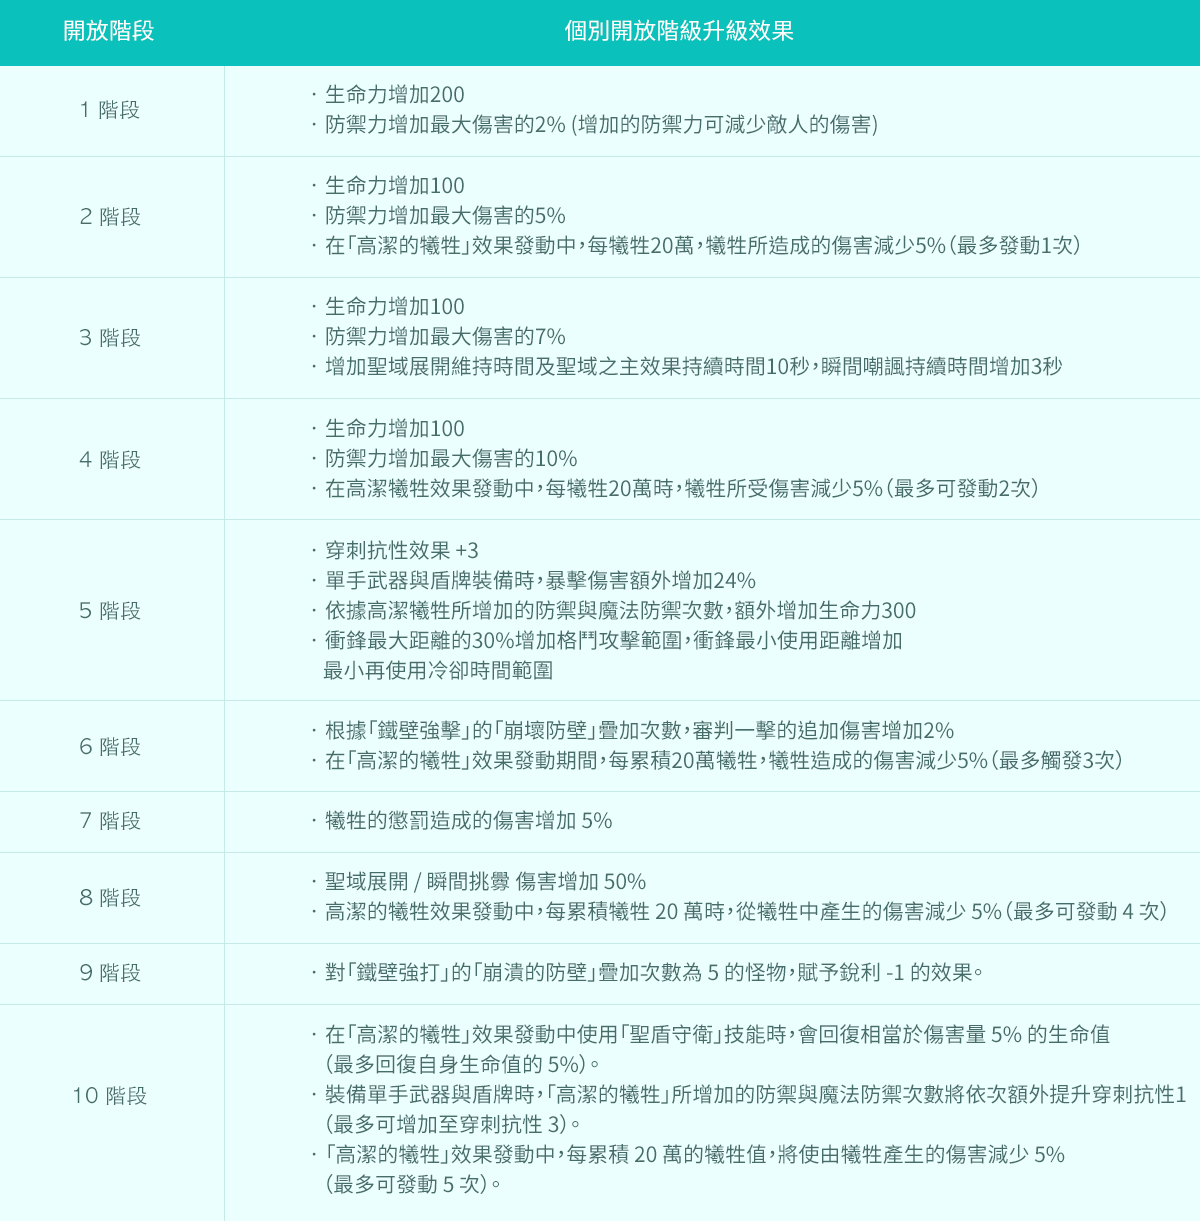
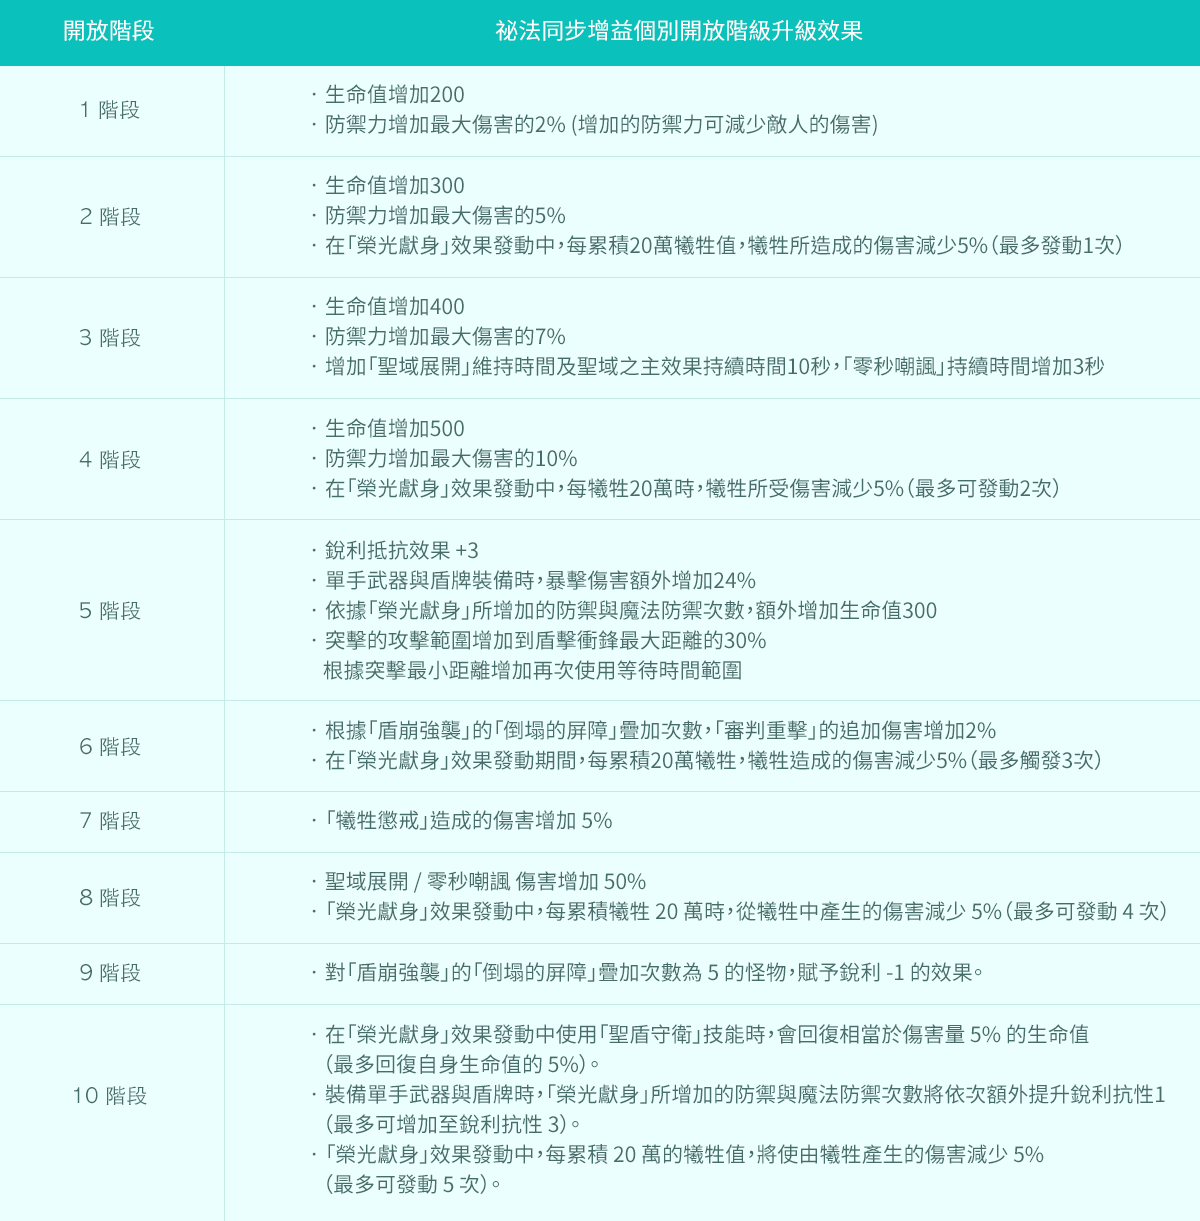
update menu

diff --git a/index.html b/index.html
@@ -42,8 +42,8 @@
   <body style="overflow: visible">
     <div class="wrap" name="Top">
       <div class="top">
-        <a class="logo" href="">
-          <img src="./img/page/logo.png" alt="마비노기" />
+        <a class="logo" href="https://mabinogi.beanfun.com/Main">
+          <img src="./img/page/logo.png" style="width: 142px" />
         </a>
       </div>
 
@@ -77,10 +77,10 @@
                 <div class="m_btn_close"></div>
                 <div class="bbox">
                   <div class="content">
-                    <div class="desc">海米斯教團的</div>
+                    <div class="desc">雷米斯教團的</div>
                     <div class="title">伊歐拉</div>
                     <div class="ctxt">
-                      新的祕法適合者候選人。<br /><br />伊歐拉在法皇廳聖殿騎士團中，<br />以特別閃耀的虔誠信仰受到高度評價。<br /><br />原本以為她會遵循並侍奉愛之神萊米拉克的教誨，<br />過著信仰的生活，<br />然而新的命運正悄然降臨。<br /><br />法皇廳為何要將這位值得信賴的人才送往祕法協會呢？
+                      新的祕法適合者候選人。<br /><br />伊歐拉在法皇廳聖殿騎士團中，<br />以特別閃耀的虔誠信仰受到高度評價。<br /><br />原本以為她會遵循並侍奉愛之神雷米斯的教誨，<br />過著信仰的生活，<br />然而新的命運正悄然降臨。<br /><br />法皇廳為何要將這位值得信賴的人才送往祕法協會呢？
                     </div>
                   </div>
                   <div class="vbox">
@@ -102,7 +102,7 @@
                         <span></span>
                       </div>
                     </div>
-                    <div class="txt">주 품에 나를 숨기소서</div>
+                    <div class="txt">請擁我入懷</div>
                   </div>
                 </div>
                 <div class="btn_close"></div>
@@ -214,7 +214,7 @@
           <div class="btn_go">
             <a
               target="_blank"
-              href="https://mabinogi.nexon.com/page/news/event_view.asp?id=4892354 "
+              href="https://tw-event.beanfun.com/mabinogi/EventAD/EventAD.aspx?EventADID=12950"
             >
               <span class="btn_span"></span>
             </a>
@@ -244,36 +244,41 @@
               style="position: relative; top: 0; left: 0"
               dir="ltr"
             >
-              <div class="btn_start">
-                <a href="" data-a2s-code="start-click">
-                  <span>GAME START</span>
-                </a>
-              </div>
               <div class="btn_home">
-                <a href="">
-                  <span class="btn_span">공식 홈페이지 바로가기</span>
+                <a href="https://mabinogi.beanfun.com/Main">
+                  <span class="btn_span"></span>
                 </a>
               </div>
-              <!-- 해당 항목 활성화 on 클래스 추가 -->
               <ul class="btn_box ss">
                 <li class="open on">
-                  <a href="">
-                    <span class="btn_span">사전 이벤트</span>
+                  <a
+                    href="https://tw.hicdn.beanfun.com/beanfun/promo/Mabi/20250619J-shield/index.html"
+                  >
+                    <span class="btn_span"></span>
                   </a>
                 </li>
                 <li class="open">
-                  <a href="">
-                    <span class="btn_span">블록버스타 1차 업데이트</span>
+                  <a
+                    href="https://tw.hicdn.beanfun.com/beanfun/promo/Mabi/20250619J-spear/index.html"
+                  >
+                    <span class="btn_span"></span>
                   </a>
                 </li>
                 <li class="open">
-                  <a href="">
-                    <span class="btn_span">블록버스타 2차 업데이트</span>
+                  <a
+                    href="https://tw.hicdn.beanfun.com/beanfun/promo/Mabi/20250619J-freeseason/index.html"
+                  >
+                    <span class="btn_span"></span>
                   </a>
                 </li>
                 <li class="open">
-                  <a href="">
-                    <span class="btn_span">브리 레흐 최종장</span>
+                  <a href="https://mabinogi-event.beanfun.com/Anniversary20th">
+                    <span class="btn_span"></span>
+                  </a>
+                </li>
+                <li class="open">
+                  <a href="https://bean.fun/Mabi_202507_Event">
+                    <span class="btn_span"></span>
                   </a>
                 </li>
               </ul>
@@ -303,7 +308,7 @@
         </div>
         <div class="btn_toggle">
           <a href="#">
-            <span class="btn_span">메뉴 열기/닫기</span>
+            <span class="btn_span"></span>
           </a>
         </div>
       </div>
@@ -344,7 +349,7 @@
                   <br />
                   對這位聖域的主人的攻擊，
                   <br />
-                  不會使其陷入硬直或倒地狀態。
+                  不會使其陷入僵直或倒地狀態。
                 </div>
               </div>
               <div class="v v1">
@@ -407,7 +412,7 @@
         </div>
         <div class="pop s9p3">
           <div class="skill_area">
-            <div class="title">榮光獻祭</div>
+            <div class="title">榮光獻身</div>
             <div class="desc">
               最先站出的犧牲者，將守護這片戰場上的所有夥伴。
             </div>
@@ -419,7 +424,7 @@
                   <div class="rightImg"></div>
                 </div>
                 <div class="subDesc">
-                  對聚集在施法者周圍的友軍施放高潔的犧牲。
+                  對聚集在施法者周圍的友軍施放榮光獻身。
                   <br /><br />
                   之後，
                   <br />
@@ -467,9 +472,7 @@
                   <br />
                   並用手中的盾牌猛烈推擊。
                   <br /><br />
-                  範圍內被攻擊的敵人會被推向盾牌前方，
-                  <br />
-                  慘遭摔倒。
+                  範圍內被攻擊的敵人會被推向盾牌前方並倒下。
                   <br />
                   若未倒地，則會短暫僵直。
                   <br /><br />
@@ -531,7 +534,7 @@
         </div>
         <div class="pop s9p6">
           <div class="skill_area">
-            <div class="title">審判之盾</div>
+            <div class="title">審判重擊</div>
             <div class="desc">站在這面盾牌前的敵人，只能迎接慘烈的審判。</div>
             <div class="content">
               <div class="subContent">
@@ -552,7 +555,7 @@
                     <br />
                     * 旋風擺蓮腿的範圍會根據技能的範圍大小<br />而影響作用範圍。
                     <br />
-                    * 如果先被「鐵壁強打」命中，<br />則根據被命中次數，傷害會增加。
+                    * 如果先被「盾崩強襲」命中，<br />則根據被命中次數，傷害會增加。
                   </div>
                 </div>
               </div>
@@ -571,7 +574,7 @@
         </div>
         <div class="pop s9p7">
           <div class="skill_area">
-            <div class="title">犧牲的懲罰</div>
+            <div class="title">犧牲懲戒</div>
             <div class="desc">
               橫掃戰場的聖盾守衛氣勢，使所有敵人都感到畏懼。
             </div>
@@ -589,14 +592,14 @@
                   <br /><br />
                   同時，
                   <br />
-                  榮光獻祭技能所造成的持續傷害效果暫停，
+                  榮光獻身技能所造成的持續傷害效果暫停，
                   <br />
-                  並根據因榮光獻祭而累積的隊友所受傷害數值，
+                  並根據因榮光獻身而累積的隊友所受傷害數值，
                   <br />
                   對敵人造成相應的傷害。
                   <br /><br />
                   <div class="hint">
-                    * 受榮光獻祭所獲得的犧牲數值和防禦力影響。
+                    * 受榮光獻身所獲得的犧牲數值和防禦力影響。
                     <br />
                     * 持續時間會受到魔法護盾持續時間的影響。
                   </div>

diff --git a/css/menu.css b/css/menu.css
@@ -42,50 +42,9 @@
   padding-top: 0 !important
 }
 
-.side_nav .btn_start {
-  position: relative;
-  float: left;
-  width: 195px;
-  height: 70px;
-  background-color: #000;
-  overflow: hidden;
-  cursor: pointer
-}
-
-.side_nav .btn_start span {
-  position: relative;
-  z-index: inherit;
-  display: block;
-  width: 100%;
-  height: 100%;
-  background: url(../img/menu/side_nav_btn_start_txt.png) no-repeat center/auto 22px
-}
-
-.side_nav .btn_start:before {
-  content: "";
-  position: absolute;
-  top: 0;
-  left: 0;
-  display: block;
-  width: 100%;
-  height: 452px;
-  background: url(../img/menu/side_nav_btn_start_bg.png) no-repeat 0 0/195px 452px;
-  animation: sideNavStartAni 12s linear infinite
-}
-
-@keyframes sideNavStartAni {
-  0% {
-    top: 0
-  }
-
-  100% {
-    top: -382px
-  }
-}
-
 .side_nav .btn_home {
   float: left;
-  width: 100px;
+  width: 295px;
   height: 70px;
   background-image: url(../img/menu/side_nav_btn_home.png);
   background-repeat: no-repeat;
@@ -182,6 +141,17 @@
 .side_nav .btn_box.ss li:nth-child(4):hover,
 .side_nav .btn_box.ss li:nth-child(4) .btn_span:before {
   background-image: url(../img/menu/menu_04_hover.png);
+  background-repeat: no-repeat;
+}
+
+.side_nav .btn_box.ss li:nth-child(5) {
+  background-image: url(../img/menu/menu_05.png);
+  background-repeat: no-repeat;
+}
+
+.side_nav .btn_box.ss li:nth-child(5):hover,
+.side_nav .btn_box.ss li:nth-child(5) .btn_span:before {
+  background-image: url(../img/menu/menu_05_hover.png);
   background-repeat: no-repeat;
 }
 

diff --git a/css/extra.css b/css/extra.css
@@ -296,7 +296,7 @@
   }
 
   .cont_08 .btn_char .bg .bbox .content {
-    width: 225px;
+    width: 185px;
     height: 290px;
   }
 
@@ -314,7 +314,7 @@
   }
 
   .cont_08 .btn_char .bg .bbox .ctxt {
-    font-size: 15px;
+    font-size: 12px;
     line-height: 15px;
   }
 
@@ -366,6 +366,7 @@
   .cont_09 .skills_set {
     top: 780px;
     position: absolute;
+    flex-wrap: wrap;
     display: flex;
     align-self: center;
     justify-content: center;
